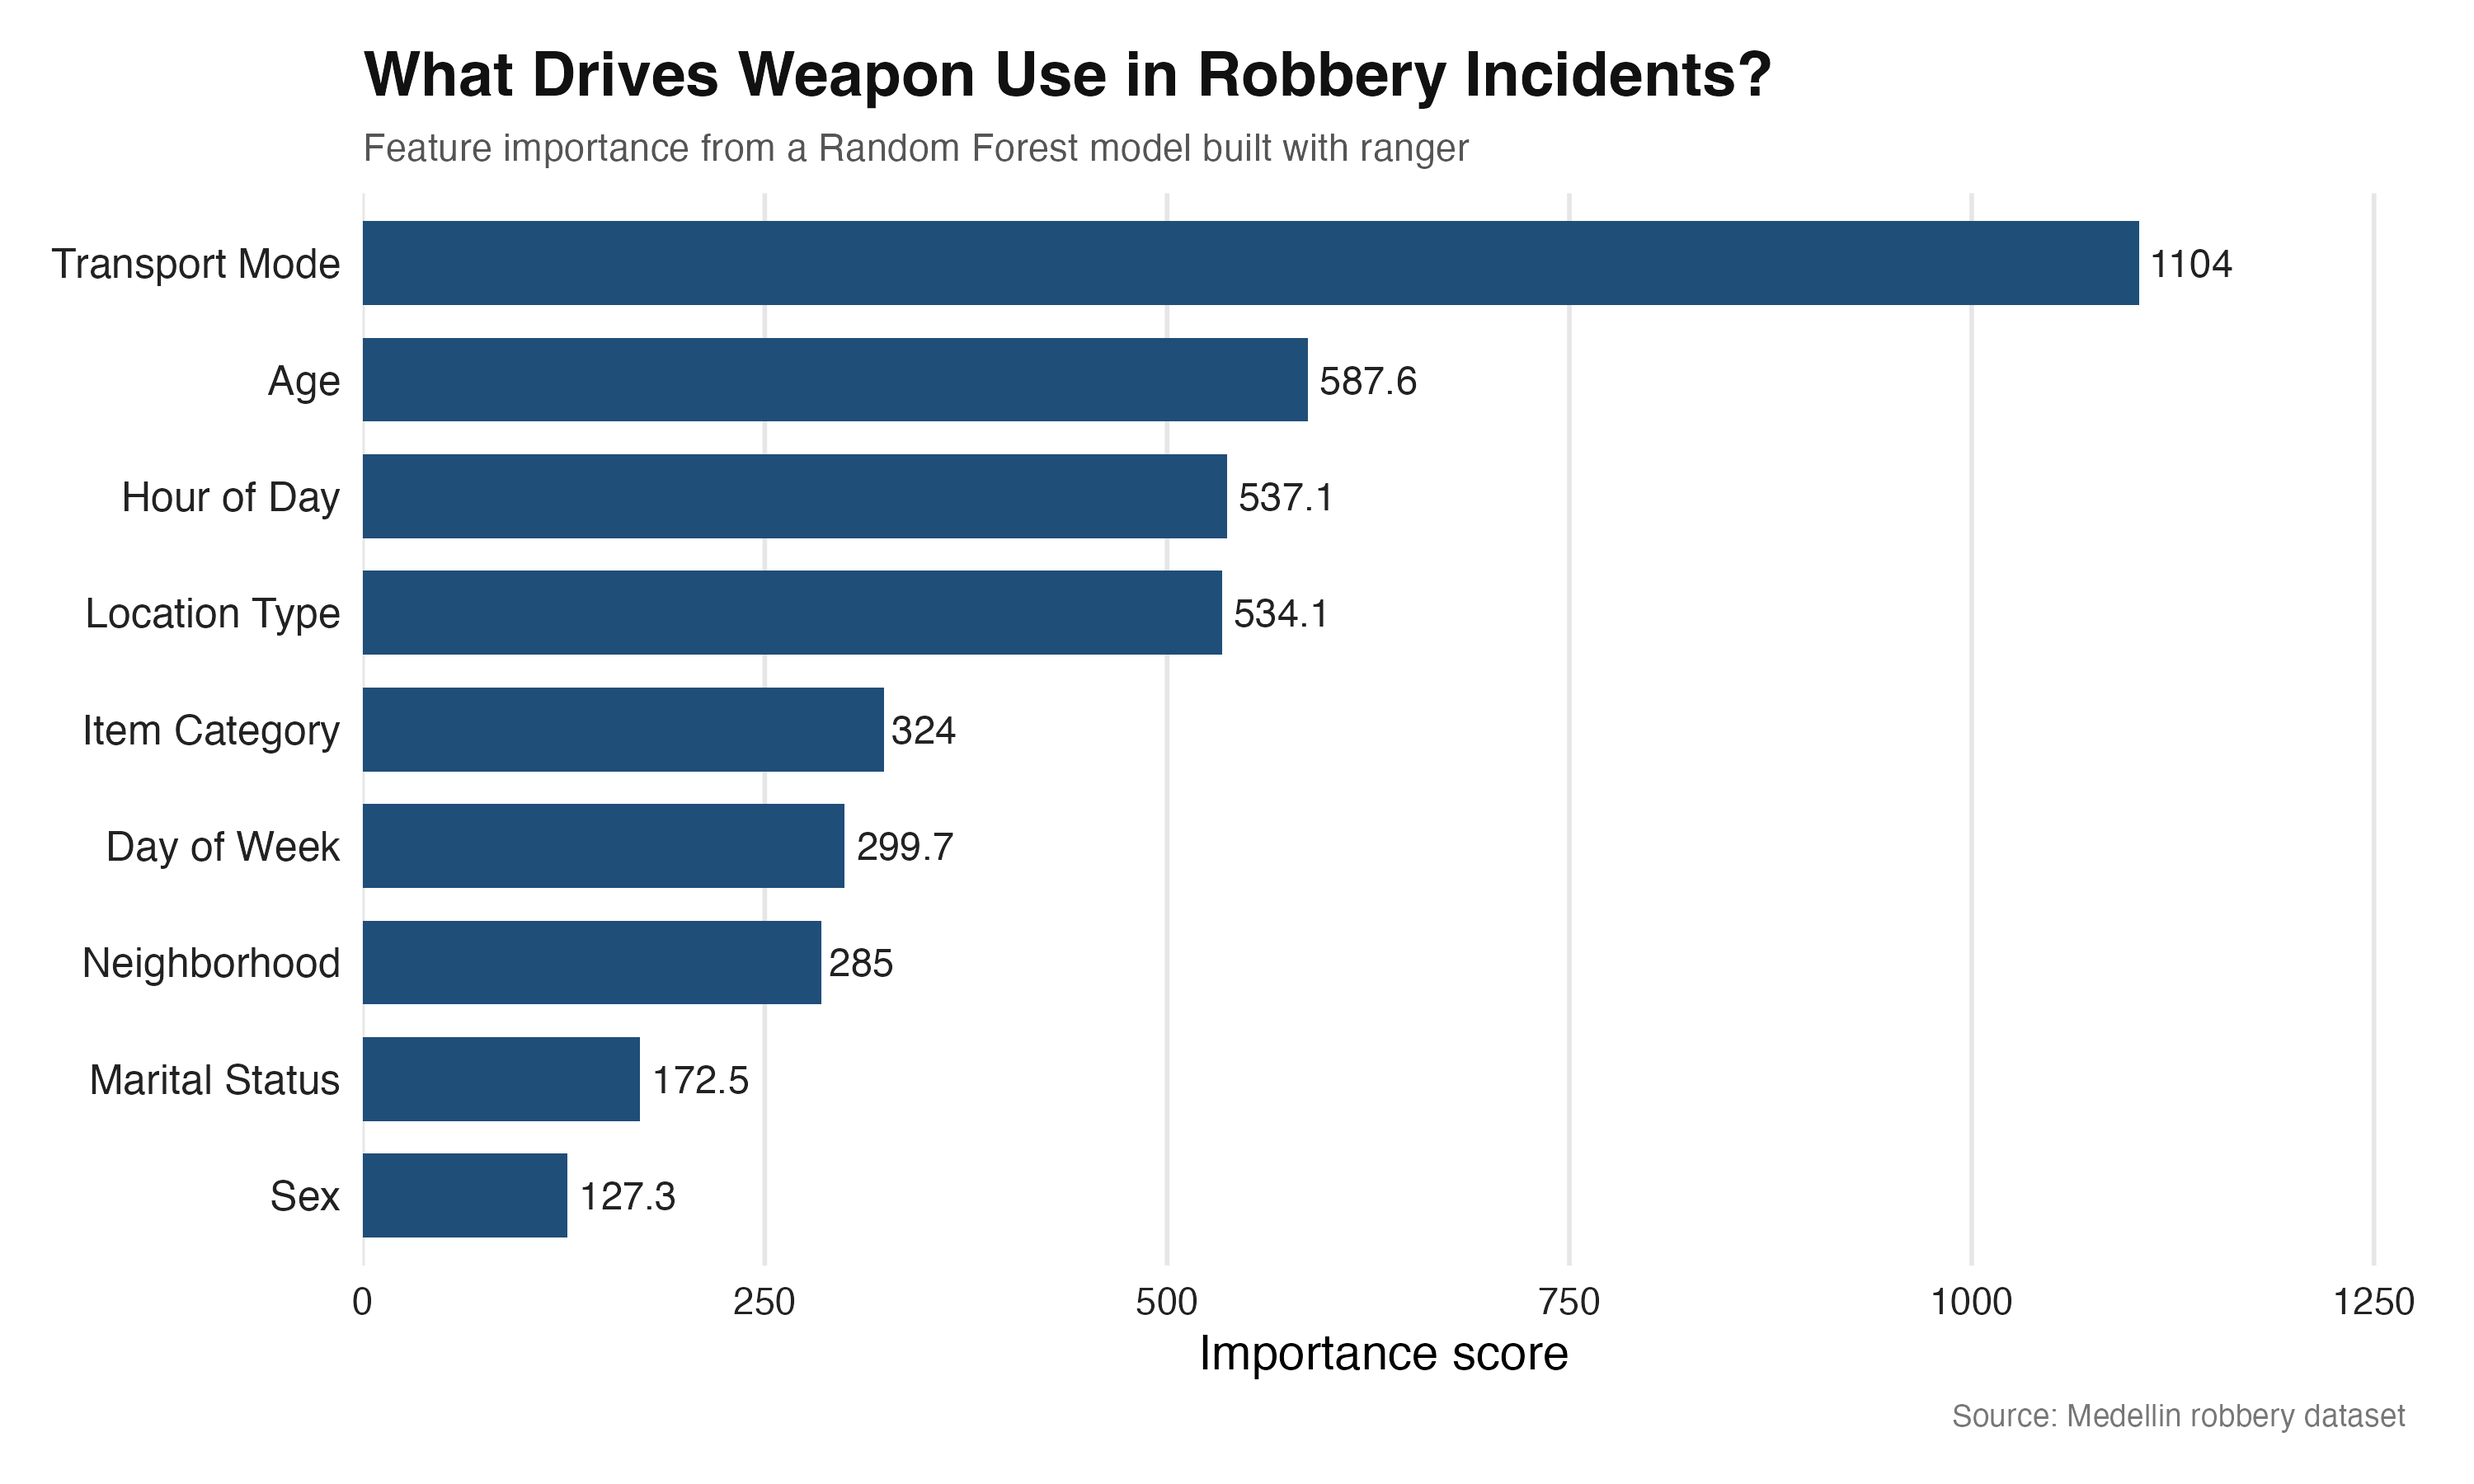
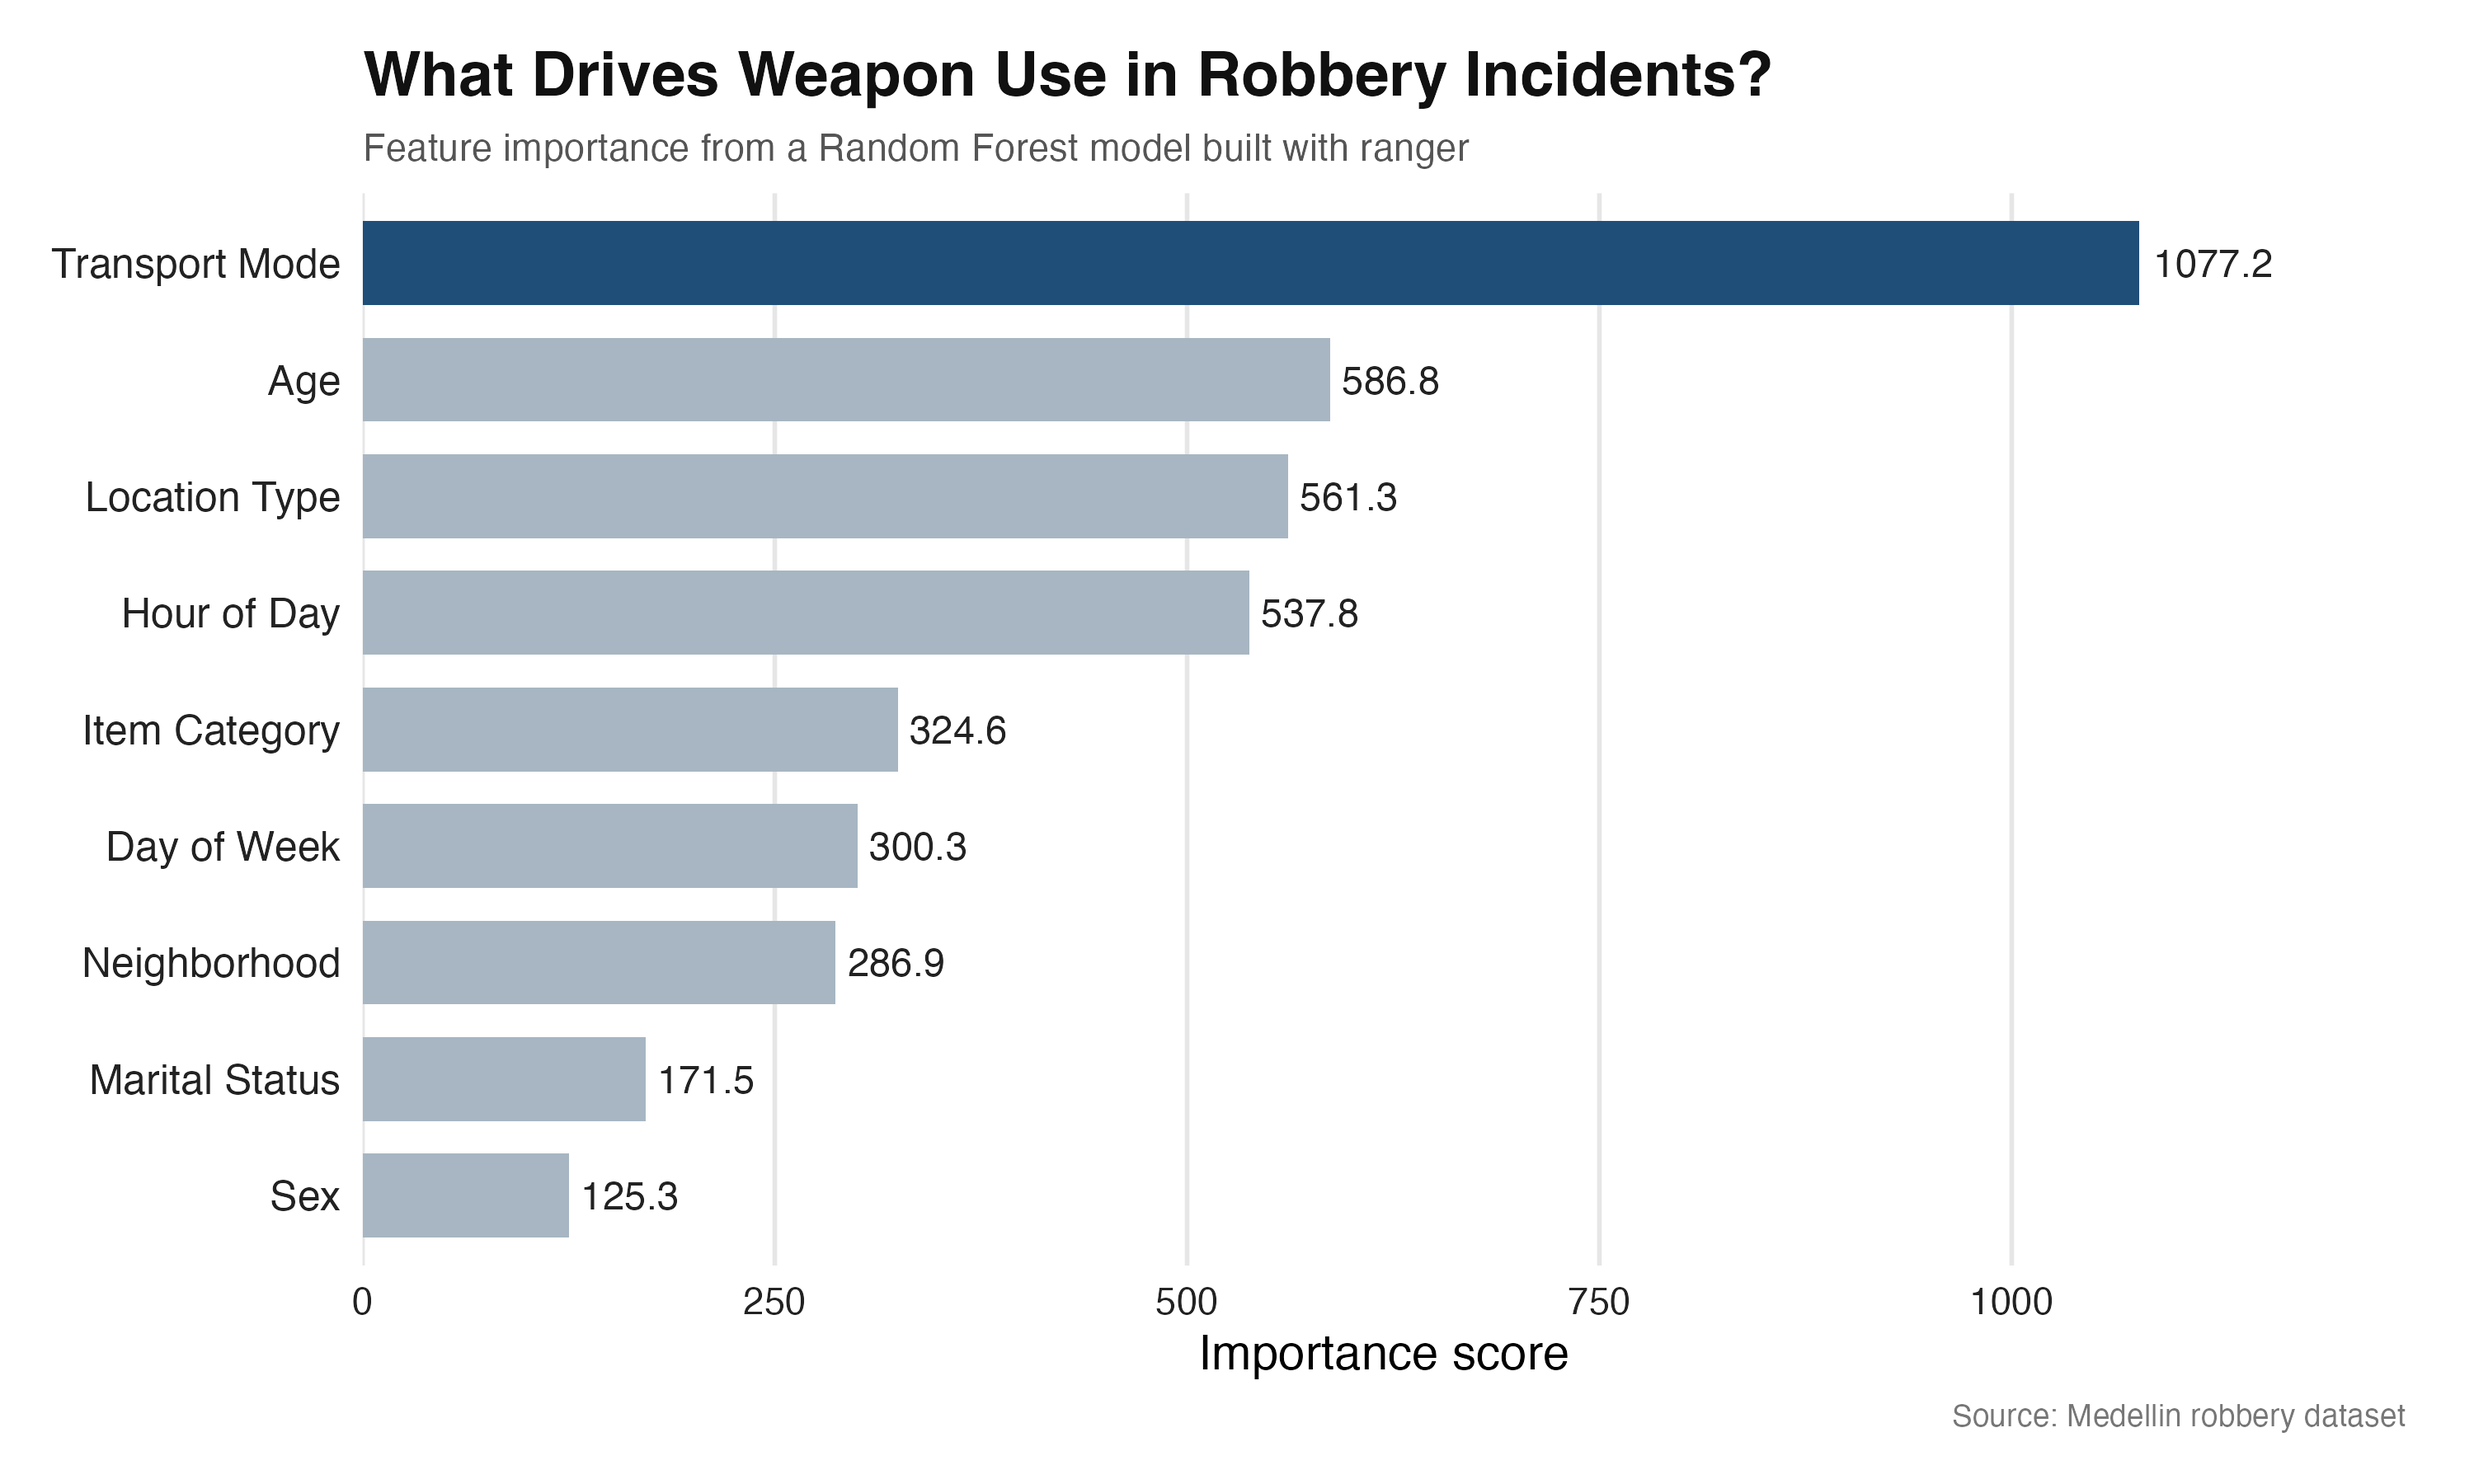
Add transport context analysis and visualization; refine feature importance plot

diff --git a/README.MD b/README.MD
@@ -4,16 +4,14 @@ This project applies a supervised machine learning workflow in R to model whethe
 
 The goal is to evaluate how well contextual, temporal, and demographic variables predict weapon involvement, and to identify which features contribute most to predictive performance.
 
-A key finding is that the context of the robbery, particularly whether the victim is in a taxi, bus, or metro, strongly relates to whether a weapon is used.
-
+A key finding is that the context of the robbery, particularly whether the victim is in a taxi, bus, or metro, strongly relates to whether a weapon is used, and this difference is not explained by how common each context is in the data.
 ---
 
 ## Project Motivation
 
-Urban crime varies not only in frequency but also in severity. One important dimension of severity is whether a weapon is involved, which has direct implications for victim risk, policing strategy, and public safety. While many analyses focus on crime counts or rates, this project instead examines within-incident variation, specifically what factors are associated with weapon use during a robbery.
+Urban crime varies in frequency and severity. One important dimension of severity is whether a weapon is involved, which has direct implications for victim risk, policing strategy, and public safety. While many analyses focus on crime counts or rates, this project instead examines within-incident variation, specifically what factors are associated with weapon use during a robbery.
 
-From a machine learning perspective, the objective is to assess whether observable features such as time, location, and victim context contain predictive signal for weapon involvement. The emphasis is on predictive performance and pattern detection rather than causal interpretation.
-
+From a machine learning perspective, the objective is to assess whether observable features such as time, location, and victim context contain predictive signal for weapon involvement. The emphasis is on predictive performance and pattern detection, not causal interpretation.
 ---
 
 ## Data
@@ -24,7 +22,7 @@ Each observation represents a reported robbery event and includes:
 
 - **Incident timestamp** (used to extract hour and day of week)
 - **Victim characteristics** (age, sex, marital status)
-- **Contextual features** (transport mode, location type, neighborhood)
+- **Contextual features** (taxi, bus, metro, location type, neighborhood)
 - **Item category** (type of good stolen)
 - **Weapon indicator** (used to construct binary outcome)
 
@@ -49,7 +47,7 @@ Each observation represents a reported robbery event and includes:
 - Age
 - Sex
 - Marital status
-- Transport mode (taxi, walking, public transit)
+- Transport mode (taxi, bus, metro)
 - Neighborhood (grouped)
 - Location type (grouped)
 - Item category
@@ -85,11 +83,23 @@ The model achieves approximately 80% accuracy on held-out test data.
 - Recall (weapon cases): ~71%  
 - Recall (non-weapon cases): ~86%  
 
-A particularly strong pattern emerges when examining robbery context:
+A strong pattern emerges when examining robbery context:
 
-- Taxi: approx. 74% of robberies involve a weapon
-- Bus: approx. 25%
-- Metro: approx. 3%
+- Taxi: ~74% of robberies involve a weapon
+- Bus: ~25%
+- Metro: ~3%
+
+Importantly, this pattern is not driven by how common each transportation mode is used:
+
+- Taxi: ~33% of incidents
+- Bus: ~41%
+- Metro: ~26%
+
+**Primary finding:** Taxi-related robberies are not simply more frequent, they disproportionately more likely to involve weapons. Given a robbery occurs, incidents involving victims in taxis have a weapon-use rate of roughly 74%, compared to about 25% for buses and 3% for the metro. This make weapon use approximately three times more likely than on buses and over twenty times more likely than on the metro.
+
+The figure below illustrates these differences:
+
+![Weapon Use by Transport Mode](outputs/transport_context.png)
 
 ## Feature Importance
 
@@ -99,12 +109,12 @@ The figure below shows the relative importance of each feature in the trained mo
 
 Feature importance analysis from the random forest model indicates that:
 
-- **Transport mode** is the strongest predictor of weapon involvement  
-- **Time of day** and **location type** contribute significantly  
-- **Neighborhood-level variation** is present but less dominant after grouping  
-- **Age** has moderate predictive value relative to other demographic variables  
+- Transport mode is the strongest predictor of weapon involvement  
+- Time of day and location type contribute significantly  
+- Neighborhood-level variation is present but less dominant after grouping  
+- Age has moderate predictive value relative to other demographic variables  
 
-These results suggest that **situational and contextual factors** are more informative than static demographic characteristics in predicting weapon use.
+These results suggest that situational and contextual factors are more informative than static demographic characteristics in predicting weapon use.
 
 ---
 
